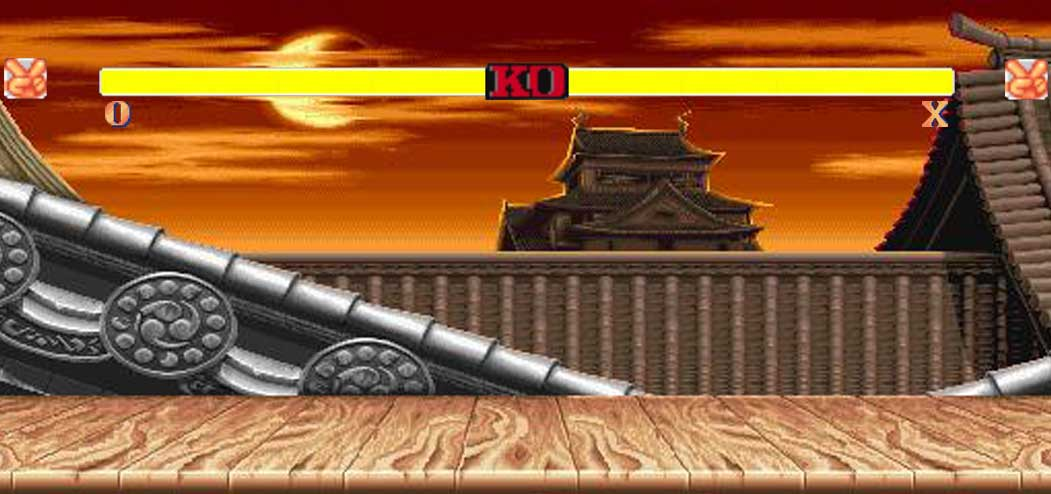
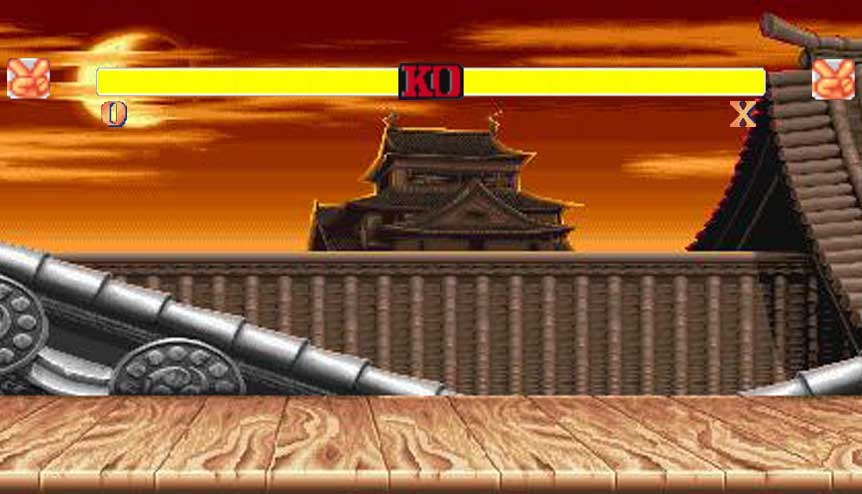
Edit stage images

diff --git a/index.html b/index.html
@@ -2,6 +2,7 @@
 <html lang="en">
 <head>
 	<meta charset="UTF-8">
+  <!-- <meta name="viewport" content="width=device-width, initial-scale=1"> -->
 	<title>Document</title>
 	<link rel="stylesheet" type="text/css" href="styles.css">
   <link rel="prefetch" href="http://jmotaylor.com/cdn/sf2video-test4.mp4">
@@ -39,7 +40,7 @@
 <div id="main-screen">
   <div id="blackout"></div>
   <img id="round-image" src="" alt="">
-  <img id="ryu-stage" src="ryu-stage-O-full-health.jpg" alt="">
+  <img id="ryu-stage" src="ryu-stage-O.jpg" alt="">
   <div class="board">
     <div class="board-row row-1">
       <div id="0" class="board-square"></div>

diff --git a/styles.css b/styles.css
@@ -40,7 +40,7 @@ body {
 #difficulty-select-screen {
 	background-color: black;
 	z-index: 750;
-	position: relative;
+	position: fixed;
 	height: 100vh; 
 }
 #title-screen-partial img{
@@ -151,7 +151,8 @@ body {
 	}
 }
 #ryu-stage {
-	height: 100vh;
+
+	height: auto;
 	width: 100vw;
 	display: block;
     margin-left: auto;
@@ -237,12 +238,12 @@ body {
 }
 #player-1-char {
 	position: fixed;
-	bottom: 45%;
+	top: 45%;
 	left: 20%;
 }
 #player-2-char {
 	position: fixed;
-	bottom: 45%;
+	top: 45%;
 	left: 72.5%;
 }
 .ryu-idle-1p {
